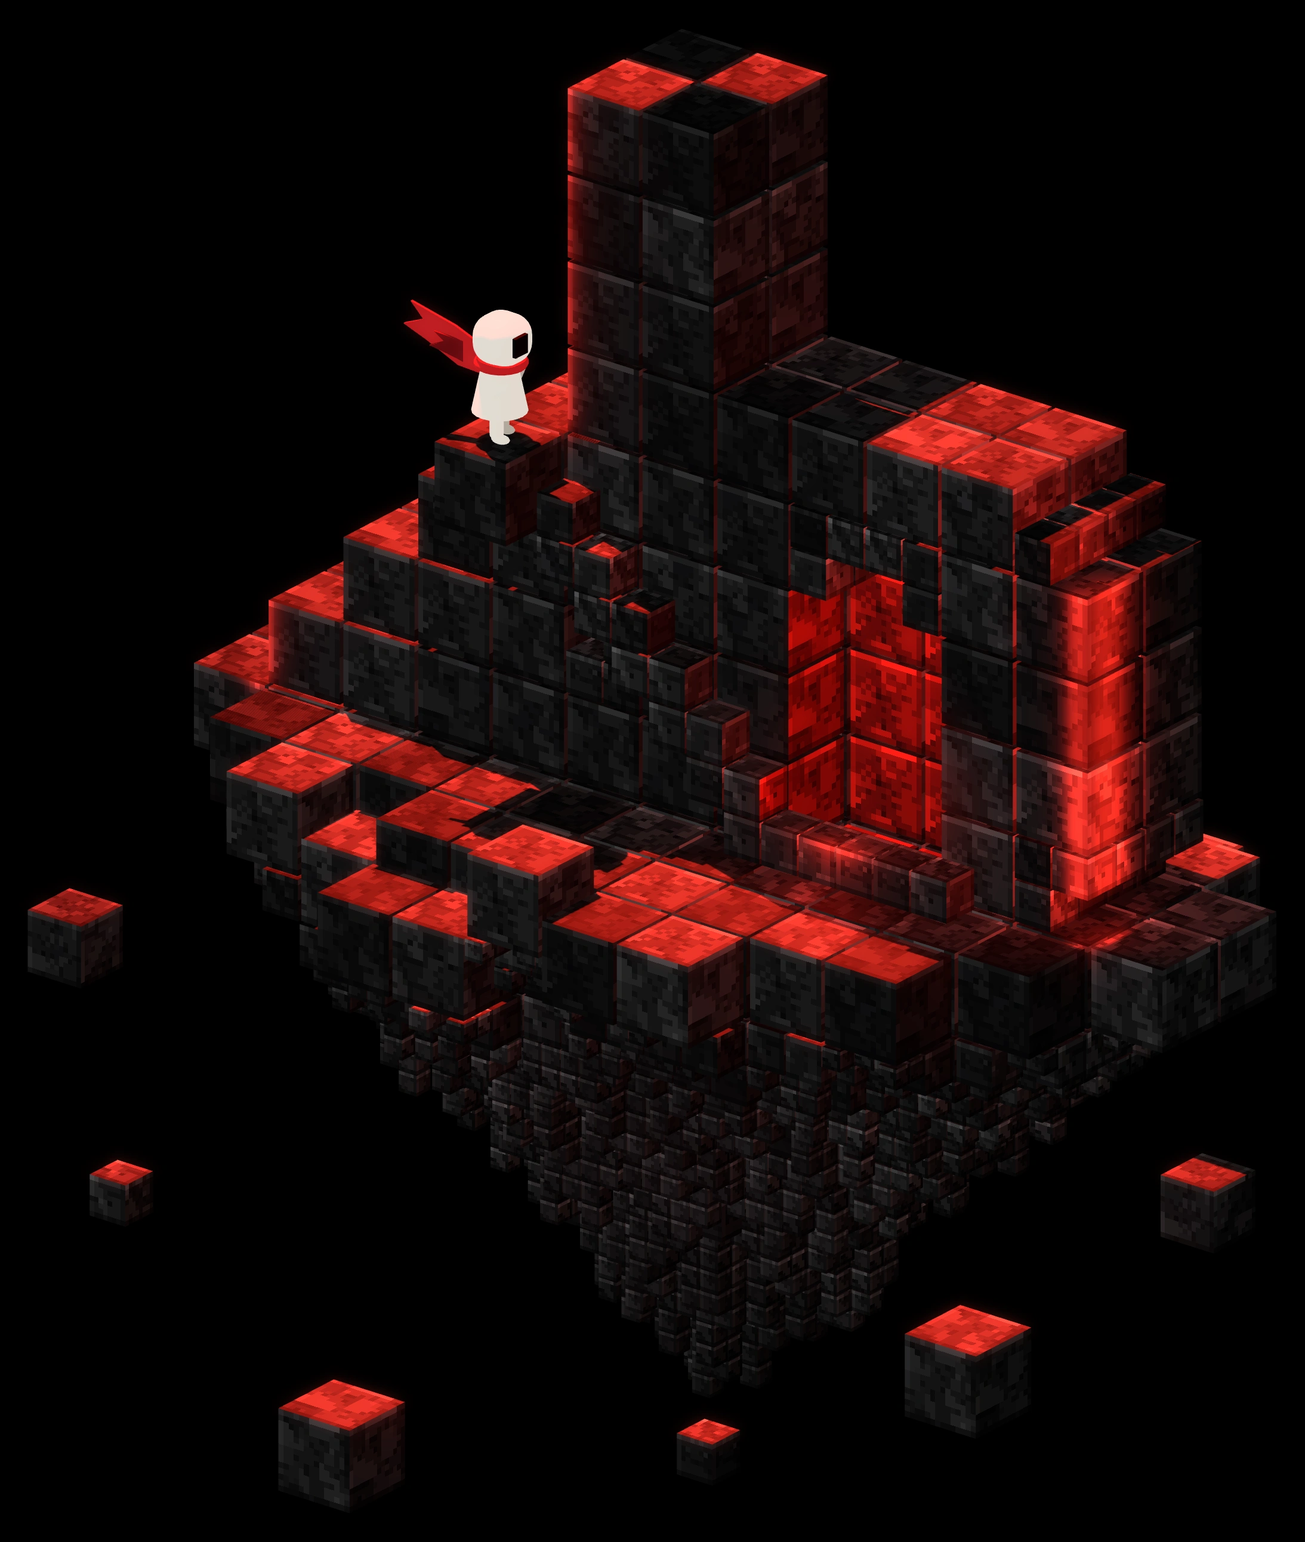
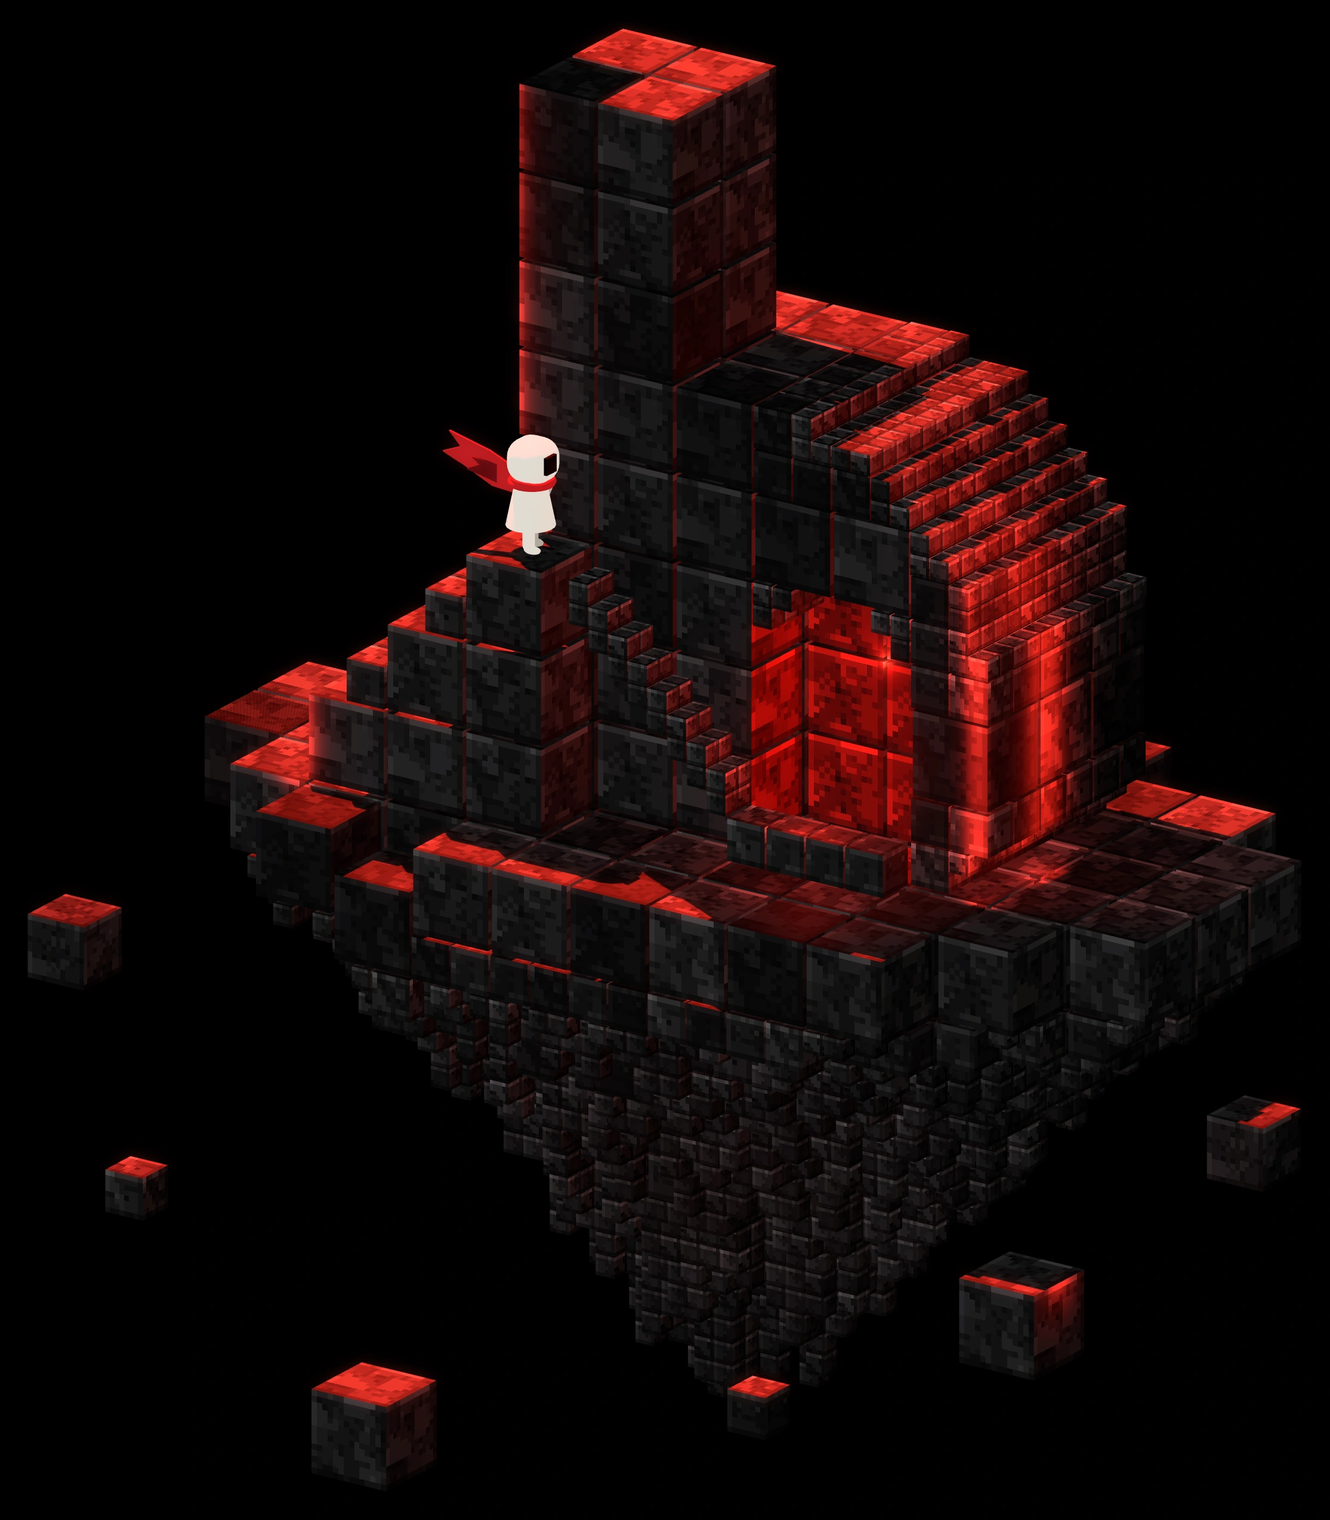
Sculpture: reshape the b from the reference's proportions
- measured from a coordinate grid over the reference: three cubes deep, stem two wide and eight tall,
  bowl five wide and five tall with a large rounded top-right corner, arch on the cube grid, one-cube recess
- built on the island's three cube tiers (15 / 7.5 / 3.75): flat runs are whole 15-unit cubes, the curve,
  arch and steps fall to the smaller blocks; weathering chips removed so faces stay clean
- four steps up to a landing in front of the stem, then a thin ribbon of small steps to the doorstep
- camera 34 deg around / 21 deg up (stem faces 2:1); lighting not touched

Claude-Session: https://claude.ai/code/session_01QzWKhTYrrY3Jd26DSiS11Q

diff --git a/tools/sculpture3d.js b/tools/sculpture3d.js
@@ -41,28 +41,33 @@ function vnoise(x, y, z, sc, s) {
   return lerp(lerp(c00, c10, fy), lerp(c01, c11, fy), fz);
 }
 
-/* ---------- layout (units) ---------- */
-const G = 7.5;                                     // finest letter cell; aligned 2x2x2 groups merge into 15-unit cubes
-const BODY_Y1 = 30;                                // letter depth: two cubes
-const JF = BODY_Y1 / G;                            // cells through the depth of the body
-const STEM = { x0: 30, x1: 60, h: 120 };           // two cubes wide, eight tall
-const BOWL = { x0: 45, x1: 135, h: 75, rTop: 30, rBot: 15 };
-const DOOR = { x0: 75, x1: 105, zRect: 37.5, cx: 90, r: 15, recessY: 15 };   // arched opening, recessed one cube
-const LANDING_Z = 60;                              // top of the left steps, where the explorer stands
+/* ---------- layout (units) ----------
+ * Measured from the reference (a coordinate grid laid over the b): the stem is two cubes wide and a cube and a half deep,
+ * the bowl is a cube and a half deeper and runs 60 units past the stem with a big rounded top-right corner, the arched
+ * door sits one gap-width from the stem with a one-cube recess, and the stairs are one prism in front of the wall: three
+ * steps up to a small landing, then a thin ribbon of small steps down to the doorstep. The front faces of stem and bowl
+ * are flush. */
+const G = 3.75;                                    // finest letter cell; aligned groups merge into 7.5 and 15-unit cubes: the island's three tiers
+const BODY_Y1 = 45;                                // front plane of the letter: three cubes deep
+const JF = BODY_Y1 / G;                            // cells through the depth of the bowl
+const STEM = { x0: 30, x1: 60, h: 120, y0: 15 };   // 2 cubes wide, 2 deep (front flush with the bowl), 8 tall
+const BOWL = { x0: 45, x1: 120, h: 75, rTop: 45, rBot: 15 };            // 3 deep, 5 tall, 5 wide; a big rounded top-right corner
+const DOOR = { x0: 75, x1: 105, zRect: 30, cx: 90, r: 15, recessY: 30 };   // arched opening on the cube grid, recessed one cube
+const LANDING_Z = 45;                              // top of the stairs, where the explorer stands
 const CELL = 15;                                   // island top cube; tiers below are CELL/2 and CELL/4
-const PLAT_CX = 52.5, PLAT_CY = 18, PLAT_AX = 92, PLAT_AY = 54;   // island footprint: an ellipse that reads as a disc from the camera
+const PLAT_CX = 62, PLAT_CY = 26, PLAT_AX = 88, PLAT_AY = 56;   // island footprint: an ellipse that reads as a disc from the camera
+
 const inCircle = (x, z, cx, cz, r) => (x - cx) ** 2 + (z - cz) ** 2 <= r * r;
-function inLetter(X, Z) {
-  if (X >= STEM.x0 && X < STEM.x1 && Z >= 0 && Z < STEM.h) return true;
-  if (X >= BOWL.x0 && X < BOWL.x1 && Z >= 0 && Z < BOWL.h) {
-    const cxT = BOWL.x1 - BOWL.rTop, czT = BOWL.h - BOWL.rTop;
-    if (X > cxT && Z > czT && !inCircle(X, Z, cxT, czT, BOWL.rTop)) return false;
-    const cxB = BOWL.x1 - BOWL.rBot, czB = BOWL.rBot;
-    if (X > cxB && Z < czB && !inCircle(X, Z, cxB, czB, BOWL.rBot)) return false;
-    return true;
-  }
-  return false;
+const inStem = (X, Z) => X >= STEM.x0 && X < STEM.x1 && Z >= 0 && Z < STEM.h;
+function inBowl(X, Z) {
+  if (X < BOWL.x0 || X >= BOWL.x1 || Z < 0 || Z >= BOWL.h) return false;
+  const cxT = BOWL.x1 - BOWL.rTop, czT = BOWL.h - BOWL.rTop;
+  if (X > cxT && Z > czT && !inCircle(X, Z, cxT, czT, BOWL.rTop)) return false;
+  const cxB = BOWL.x1 - BOWL.rBot, czB = BOWL.rBot;
+  if (X > cxB && Z < czB && !inCircle(X, Z, cxB, czB, BOWL.rBot)) return false;
+  return true;
 }
+const inLetter = (X, Z) => inStem(X, Z) || inBowl(X, Z);
 function inDoorOpening(X, Z) {
   if (X < DOOR.x0 || X >= DOOR.x1) return false;
   if (Z < DOOR.zRect) return true;
@@ -85,36 +90,51 @@ const cen = (i) => (i + 0.5) * G;
 function buildLetter() {
   const chips = [];
   const put = (i, j, k, kind) => grid.set(gk(i, j, k), kind);
-  // main body: stem and bowl, depth two cubes
-  for (let i = STEM.x0 / G; i < BOWL.x1 / G; i++) {
-    for (let k = 0; k < STEM.h / G; k++) {
+  const putBox = (x0, x1, y0, y1, z0, z1, kind) => {                       // all cells whose centres fall inside the box (units)
+    for (let i = Math.round(x0 / G); i < Math.round(x1 / G); i++) for (let j = Math.round(y0 / G); j < Math.round(y1 / G); j++) for (let k = Math.round(z0 / G); k < Math.round(z1 / G); k++) put(i, j, k, kind);
+  };
+  // body: the bowl is 30 deep, the stem 22.5 deep, fronts flush
+  for (let i = Math.round(STEM.x0 / G); i < Math.round(BOWL.x1 / G); i++) {
+    for (let k = 0; k < Math.round(STEM.h / G); k++) {
       const X = cen(i), Z = cen(k);
       if (!inLetter(X, Z)) continue;
-      const edge = !inLetter(X - G, Z) || !inLetter(X + G, Z) || !inLetter(X, Z - G) || !inLetter(X, Z + G);
-      for (let j = 0; j < JF; j++) {
+      const j0 = inBowl(X, Z) ? 0 : Math.round(STEM.y0 / G);
+      for (let j = j0; j < JF; j++) {
         if (inDoorOpening(X, Z) && cen(j) > DOOR.recessY) continue;       // recess: one cube deep
         put(i, j, k, 'body');
-        if (edge && k > 2 && hash3(i, j, k, 41) < 0.03 && Math.abs(X - DOOR.cx) > DOOR.r + G * 2) chips.push([i, j, k]);   // weathering, never beside the arch
       }
     }
   }
-  // left block: four big steps (15 high, 15 wide) climbing to the landing, flush with the wall
-  for (let s = 0; s < 4; s++) {
-    for (let i = -4 + 2 * s; i < -2 + 2 * s; i++) for (let k = 0; k < 2 * (s + 1); k++) for (let j = 0; j < JF; j++) put(i, j, k, 'stair');
-  }
-  // landing ledge: one cube in front of the top step, where the explorer stands in view
-  for (let i = 2; i < 4; i++) for (let j = JF; j < JF + 2; j++) for (let k = 6; k < 8; k++) put(i, j, k, 'stair');
-  // ribbon of small steps down the wall from the landing to the doorway
-  for (let st = 0; st < 6; st++) {
-    const top = 7 - st;                                                      // cells (7.5 each): 52.5, 45, ... 22.5
-    for (let k = Math.max(0, top - 2); k < top; k++) put(4 + st, JF, k, 'rib');
-  }
+  // stairs: one prism in front of the wall. Left flight: four steps (7.5 wide, 15 / 22.5 / 30 / 37.5 high, 30 deep, free-standing) up to the
+  // landing (45 high, 15 wide, in front of the stem). A thin ribbon of small steps then runs down to the doorstep.
+  putBox(0, 7.5, 30, 60, 0, 15, 'stair');
+  putBox(7.5, 15, 30, 60, 0, 22.5, 'stair');
+  putBox(15, 22.5, 30, 60, 0, 30, 'stair');
+  putBox(22.5, 30, 30, 60, 0, 37.5, 'stair');
+  putBox(30, 45, 45, 60, 0, 45, 'stair');                                  // landing, in front of the stem
   // doorstep
-  for (let i = 9; i < 15; i++) put(i, JF, 0, 'step');
+  putBox(75, 105, 45, 52.5, 0, 7.5, 'step');
   chips.forEach(([i, j, k]) => grid.delete(gk(i, j, k)));
 }
 
-/* merge aligned 2x2x2 groups into 15-unit cubes, emit the rest as 7.5-unit blocks */
+// thin ribbon of small steps from the landing down to the doorway: a diagonal line of 3.75-unit cubes outside the 7.5 grid,
+// each step a tread cube with one cube under it, two deep, like the reference's thin diagonal ribbon
+function emitRibbon() {
+  const q = 3.75;
+  for (let st = 0; st < 8; st++) {
+    const X = 45 + q / 2 + st * q, top = 45 - (st + 1) * q;                   // treads at 41.25, 37.5, ... 15: the ribbon runs along the wall to the doorstep
+    for (let n = 0; n < 2; n++) {
+      for (let d = 0; d < 2; d++) {
+        const f = baseFaces();
+        f[2] = 'c' + Math.floor(hash3(st, n, d, 250) * 4); f[0] = 'c' + Math.floor(hash3(st, n, d, 251) * 4); f[4] = 'c' + Math.floor(hash3(st, n, d, 252) * 4);
+        blocks.push({ X, Y: BODY_Y1 + q / 2 + d * q, Z: top - q / 2 - n * q, s: q, f, t: n === 0 ? 0.95 : 0.5 });
+      }
+    }
+  }
+}
+
+/* merge aligned groups into the island's three tiers: 15-unit cubes (4x4x4 cells) where a full group fits, else 7.5-unit blocks
+   (2x2x2), else 3.75-unit blocks. Flat runs become big cubes; the bowl's curve and the arch fall to the small blocks. */
 function emitLetter() {
   const done = new Set();
   const emit = (i, j, k, n) => {              // cube covering cells [i,i+n) x [j,j+n) x [k,k+n)
@@ -134,33 +154,34 @@ function emitLetter() {
     }
     // top
     if (anyCell((a, b) => !has(i + a, j + b, k + n))) f[2] = hid(0, 0, 1);
-    // tint: random per cube, darker in tight corners
+    // tint: darker in tight corners; a share of the blocks are near-black stone so the tops alternate red and black
     let occ = 0;
     for (let a = -1; a <= n; a++) for (let b = -1; b <= n; b++) for (let c = -1; c <= n; c++) if (has(i + a, j + b, k + c) && (a < 0 || b < 0 || c < 0 || a >= n || b >= n || c >= n)) occ++;
     const faceCells = 6 * n * n + 12 * n + 8;
     const ao = 1 - Math.max(0, occ / faceCells - 0.5);
     const kind = kindAt(i, j, k);
-    const shoulder = n === 1 && kind === 'body' && X > BOWL.x1 - BOWL.rTop && Z > BOWL.h - BOWL.rTop - 6;
-    const pDark = shoulder ? 0.4 : kind === 'stair' || kind === 'rib' || kind === 'step' ? 0 : 0.28;     // step treads are always red-lit
-    blocks.push({ X, Y, Z, s, f, t: (hash3(i, j, k, 303) < pDark ? 0.04 : 0.5 + 0.8 * hash3(i, j, k, 300)) * Math.max(0.4, ao) });
+    const curved = n < 4 && kind === 'body' && X > BOWL.x1 - BOWL.rTop && Z > BOWL.h - BOWL.rTop - 6;
+    const pDark = curved ? 0.45 : kind === 'stair' || kind === 'step' ? 0 : n === 4 ? 0.22 : 0.3;     // step treads are always red-lit
+    blocks.push({ X, Y, Z, s, f, t: (hash3(i, j, k, 303) < pDark ? 0.04 : 0.85 + 0.3 * hash3(i, j, k, 300)) * Math.max(0.55, ao) });
+  };
+  const full = (i0, j0, k0, n, kind) => {
+    for (let a = 0; a < n; a++) for (let b = 0; b < n; b++) for (let c = 0; c < n; c++) {
+      const kk = gk(i0 + a, j0 + b, k0 + c);
+      if (!grid.has(kk) || grid.get(kk) !== kind || done.has(kk)) return false;
+    }
+    return true;
   };
   for (const [key] of grid) {
     if (done.has(key)) continue;
     const [i, j, k] = key.split(',').map(Number);
-    const i0 = Math.floor(i / 2) * 2, j0 = Math.floor(j / 2) * 2, k0 = Math.floor(k / 2) * 2;
     const kind = grid.get(key);
-    let full = kind === 'body' || kind === 'stair';
-    for (let a = 0; a < 2 && full; a++) for (let b = 0; b < 2 && full; b++) for (let c = 0; c < 2 && full; c++) {
-      const kk = gk(i0 + a, j0 + b, k0 + c);
-      if (!grid.has(kk) || grid.get(kk) !== kind || done.has(kk)) full = false;
+    let n = 4, i0 = Math.floor(i / 4) * 4, j0 = Math.floor(j / 4) * 4, k0 = Math.floor(k / 4) * 4;
+    if (!full(i0, j0, k0, 4, kind)) {
+      n = 2; i0 = Math.floor(i / 2) * 2; j0 = Math.floor(j / 2) * 2; k0 = Math.floor(k / 2) * 2;
+      if (!full(i0, j0, k0, 2, kind)) { n = 1; i0 = i; j0 = j; k0 = k; }
     }
-    if (full) {
-      for (let a = 0; a < 2; a++) for (let b = 0; b < 2; b++) for (let c = 0; c < 2; c++) done.add(gk(i0 + a, j0 + b, k0 + c));
-      emit(i0, j0, k0, 2);
-    } else {
-      done.add(key);
-      emit(i, j, k, 1);
-    }
+    for (let a = 0; a < n; a++) for (let b = 0; b < n; b++) for (let c = 0; c < n; c++) done.add(gk(i0 + a, j0 + b, k0 + c));
+    emit(i0, j0, k0, n);
   }
 }
 
@@ -187,8 +208,8 @@ function emitPlatform() {
       if (rr > 1.0) continue;
       const r = hash3(ci, cj, 0, 2);
       const ring = rr > 0.8;
-      const flat = cj >= 0 && cj <= 2 && x > -45 && x < 150;                  // keeps its height: under the letter, the stairs and the doorstep
-      const under = cj >= 0 && cj <= 1 && x > -30 && x < 135;                     // hidden under the letter: no checker
+      const flat = cj >= 0 && cj <= 3 && x > -45 && x < 150;                  // keeps its height: under the letter, the stairs and the doorstep
+      const under = cj >= 0 && cj <= 2 && x > -30 && x < 135;                     // hidden under the letter: no checker
       let top = 0;
       if (ring && !flat) top = r < 0.12 ? -CELL / 2 : r > 0.88 ? CELL / 2 : 0;   // a couple of rim cubes stand higher or lower
       const D = bowlDepth(x, y) * (0.96 + 0.08 * hash3(ci, cj, 1, 4));
@@ -306,6 +327,7 @@ function material(token, n) {
 /* ---------- build ---------- */
 buildLetter();
 emitLetter();
+emitRibbon();
 emitPlatform();
 emitLoose();
 
@@ -389,8 +411,8 @@ for (const [, list] of groups) {
   tail.lineTo(-8.8, 0.2); tail.lineTo(-4.4, -2.2); tail.lineTo(0, -2.8); tail.closePath();
   add(new THREE.ExtrudeGeometry(tail, { depth: 0.45, bevelEnabled: false }), red, -1.2, 10.5, -0.2, 0, 0.15, 0);
   add(new THREE.ExtrudeGeometry(tail, { depth: 0.3, bevelEnabled: false }), redDark, -1.0, 9.9, -0.9, 0, 0.35, 0.05).scale.set(0.7, 0.6, 1);
-  g.scale.setScalar(1.3);
-  g.position.set(22.5, LANDING_Z, 37.5);
+  g.scale.setScalar(1.15);
+  g.position.set(37.5, LANDING_Z, 52.5);
   scene.add(g);
 })();
 
@@ -405,7 +427,7 @@ scene.add(fill);
 // brightest over the b and falls off toward the island's rim and the cone below; it casts the shadows.
 const key = new THREE.SpotLight(0xff2a1c, 15, 0, 0.62, 1.0, 0);
 key.position.set(-45, 280, 6);
-key.target.position.set(60, 40, 15);
+key.target.position.set(66, 40, 20);
 key.castShadow = true;
 key.shadow.mapSize.set(4096, 4096);
 key.shadow.camera.near = 50; key.shadow.camera.far = 600;
@@ -413,9 +435,9 @@ key.shadow.bias = -0.0004; key.shadow.normalBias = 0.35; key.shadow.radius = 3;
 scene.add(key, key.target);
 
 const doorInner = new THREE.PointLight(0xff2a1e, 420, 70, 2);         // glow inside the recess
-doorInner.position.set(DOOR.cx, 36, 24);
+doorInner.position.set(DOOR.cx, 30, 30);
 const doorMouth = new THREE.PointLight(0xff2418, 520, 38, 2);         // spill onto the floor, doorstep and nearby steps only
-doorMouth.position.set(DOOR.cx, 10, 40);
+doorMouth.position.set(DOOR.cx, 14, 52);
 scene.add(doorInner, doorMouth);
 
 const edgeLight = (X, Y, Z, intensity, dist) => {
@@ -430,12 +452,12 @@ const stripLight = (X, Y, Z, w, h, face, intensity) => {                  // sce
   l.lookAt(face === 'front' ? X : X - 1, Z, face === 'front' ? Y - 1 : Y);   // RectAreaLight emits away from the lookAt target
   scene.add(l);
 };
-stripLight(28, 31, 90, 4, 60, 'front', 8);                                // left edge of the stem above the landing
-stripLight(-32, 31, 30, 4, 60, 'front', 8);                               // left edge of the lowest step
-stripLight(133, 31, 37.5, 4, 75, 'front', 8);                             // front edge at the right end of the bowl
-stripLight(137, 24, 37.5, 6, 75, 'right', 8);                             // right end face, along its front edge
-edgeLight(52, 92, -70, 160, 100);                                     // low red glow under the island: the cone's tips catch it
-edgeLight(150, 80, -45, 90, 60);
+stripLight(28, 46, 82.5, 4, 75, 'front', 8);                                // left edge of the stem above the landing
+stripLight(-2, 61, 7.5, 4, 15, 'front', 8);                                // left edge of the lowest step
+stripLight(118, 46, 37.5, 4, 75, 'front', 8);                               // front edge at the right end of the bowl
+stripLight(122, 28, 37.5, 6, 75, 'right', 8);                               // right end face, along its front edge
+edgeLight(67, 92, -70, 160, 100);                                     // low red glow under the island: the cone's tips catch it
+edgeLight(160, 80, -45, 90, 60);
 edgeLight(-45, 70, -40, 80, 55);
 
 /* ---------- camera + render ---------- */
@@ -443,9 +465,9 @@ const bbox = new THREE.Box3();
 blocks.forEach((b) => bbox.expandByPoint(new THREE.Vector3(b.X, b.Z, b.Y)));
 const centre = bbox.getCenter(new THREE.Vector3());
 const camera = new THREE.OrthographicCamera(-1, 1, 1, -1, 1, 2000);
-// Camera: 38 deg around from the b's face (so the door face is wider than the bowl's end) and 24 deg up: a lower view than
-// isometric, which shows the island's disc, the stepped cone below it and the b's tall front without squashing the island.
-const AZ = 38 * Math.PI / 180, EL = 24 * Math.PI / 180;
+// Camera measured from the reference: the stem's two visible faces are 2:1 (front : side), which for a 30 x 22.5 stem means
+// 34 deg around from the b's face; 21 deg up from the top-face proportions.
+const AZ = 34 * Math.PI / 180, EL = 21 * Math.PI / 180;
 camera.position.copy(centre).add(new THREE.Vector3(Math.sin(AZ) * Math.cos(EL), Math.sin(EL), Math.cos(AZ) * Math.cos(EL)).multiplyScalar(700));
 camera.lookAt(centre);
 camera.updateMatrixWorld(true);

diff --git a/index.html b/index.html
@@ -46,9 +46,9 @@
       <figure class="hero__art">
         <img class="hero__sculpture"
           src="assets/sculpture.webp"
-          srcset="assets/sculpture-1000.webp 1000w, assets/sculpture.webp 2187w"
+          srcset="assets/sculpture-1000.webp 1000w, assets/sculpture.webp 2229w"
           sizes="(max-width: 900px) 100vw, 46vw"
-          width="2187" height="2584"
+          width="2229" height="2546"
           alt="A lowercase b built from small charcoal blocks, floating on a rocky island. A stairway climbs to a tiny ivory explorer in a red scarf, and a red doorway glows in the bowl."
           fetchpriority="high" decoding="async">
       </figure>

diff --git a/README.md b/README.md
@@ -16,6 +16,6 @@ Open `index.html` in a browser (no build step needed).
 
 - `css/styles.css` holds the layout, tokens (`:root`) and responsive rules. The primary action uses `#C4161B`, a touch deeper than the documented `#D51D22` (hover brings it back to `#D51D22`). Type is Inter Tight (SIL OFL), self-hosted in `assets/fonts/`.
 - `assets/sculpture.webp` (and a 1000px variant) is the voxel b sculpture, with its explorer, red doorway lighting and floating foundation.
-- The sculpture is generated, not hand-drawn: `tools/sculpture3d.js` builds it in three.js from one family of large charcoal stone cubes. The b uses 15-unit cubes for flat runs and 7.5-unit blocks at its rounded bowl, arch and steps; the island is a round disc of 15-unit cubes over a deep, pointed gem cone of 7.5 and 3.75-unit tiers. Each cube has a chunky chipped-stone pixel texture. No block is painted red: a red spotlight from above-left lights the tops and casts shadows (some cubes are near-black stone, so tops alternate red and black), red lights sit in the doorway, thin red area lights run along the b's edges, and a near-black fill keeps the rest dark. A red-only glow is added in a 2D pass. Re-render it with `cd tools && npm install && cd .. && node tools/build-sculpture.js` (set `CHROMIUM_PATH` to use an installed Chromium; WebGL runs on the software renderer). If the output size changes, update the `width`/`height` on the `<img>` in `index.html`.
+- The sculpture is generated, not hand-drawn: `tools/sculpture3d.js` builds it in three.js from one family of large charcoal stone cubes. The b is 3 cubes deep, with a stem 2 cubes wide and 8 tall and a bowl 5 wide and 5 tall, built from 15-unit cubes for flat runs and 7.5 / 3.75-unit blocks at its rounded corner, arch and steps; the island is a round disc of 15-unit cubes over a deep, pointed gem cone of 7.5 and 3.75-unit tiers. Each cube has a chunky chipped-stone pixel texture. No block is painted red: a red spotlight from above-left lights the tops and casts shadows (some cubes are near-black stone, so tops alternate red and black), red lights sit in the doorway, thin red area lights run along the b's edges, and a near-black fill keeps the rest dark. A red-only glow is added in a 2D pass. Re-render it with `cd tools && npm install && cd .. && node tools/build-sculpture.js` (set `CHROMIUM_PATH` to use an installed Chromium; WebGL runs on the software renderer). If the output size changes, update the `width`/`height` on the `<img>` in `index.html`.
 - The artwork is rendered on pure black and shown with `mix-blend-mode: screen`, so it blends into the page background.
 - Links to `games.html`, `studio.html` and `contact.html` are placeholders until those pages exist.

diff --git a/design/ITERATION.md b/design/ITERATION.md
@@ -39,5 +39,6 @@ Use [DESIGN.md](../DESIGN.md) as the current source of design decisions. Add rev
 | 2026-10-15 | b silhouette reworked (taller stem, rounder bowl, low front-leaning camera like the reference, steps flush with the wall, red edge light strips); primary button `#C4161B`; type switched to self-hosted Inter Tight. | Implemented, awaiting user review |
 | 2026-10-15 | Camera returned to a near-isometric view (45 deg / 33 deg) so the island reads as a diamond; island reshaped as a square diamond with an inverted-cone underside and alternating red-lit / near-black top cubes. Supersedes the low front-leaning camera. | Implemented, awaiting user review |
 | 2026-10-15 | b rebuilt from the same large cubes as the island (15 / 7.5-unit); island is a round disc over a deep pointed gem cone; camera 38 deg around / 24 deg up; red spotlight key with shadows, tighter door spill. Supersedes the diamond-footprint island. | Implemented, awaiting user review |
+| 2026-10-15 | b shape reworked from a coordinate grid laid over the reference: 3 cubes deep, stem 2 wide x 8 tall, bowl 5 wide x 5 tall with a big rounded top-right corner, arched door on the cube grid, four steps up to a landing then a thin ribbon of small steps down to the doorstep; all on the island's 15 / 7.5 / 3.75 cube tiers; camera 34 deg around / 21 deg up. Lighting untouched. | Implemented, awaiting user review |
 
 For each later review, record the exact file, decision, and approval status. Do not mark proposals approved without a user decision.
